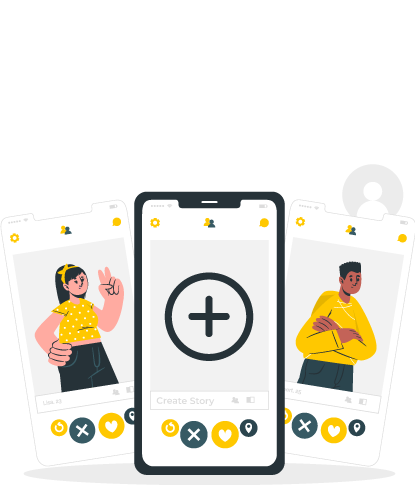
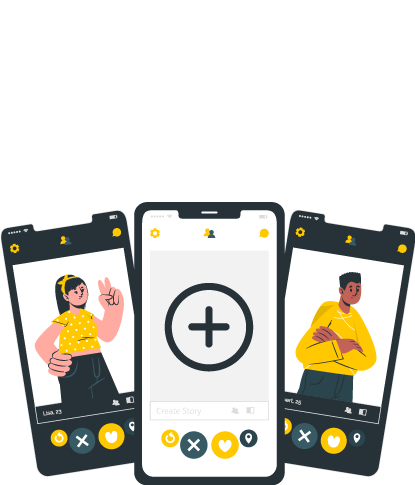
working in introslider

Changed region(s): [[0.0, 0.3711, 1.0, 1.0], [0.3759, 0.5567, 0.6361, 0.7732]]

diff --git a/screens/IntroSlider.js b/screens/IntroSlider.js
@@ -1,5 +1,5 @@
 import React from 'react';
-import { StyleSheet, View, Text, Image, StatusBar, Dimensions,ScrollView } from 'react-native';
+import { StyleSheet, View, Text, Image, StatusBar, Dimensions, ScrollView } from 'react-native';
 import AppIntroSlider from 'react-native-app-intro-slider';
 import { TouchableOpacity } from 'react-native-gesture-handler';
 import { connect } from 'react-redux'
@@ -40,11 +40,13 @@ const IntroSlider = (props) => {
     const RenderItem = ({ item, index }) => {
         console.log("item", item, index)
         return (
-            <ScrollView >
-                <View style={{ backgroundColor: item.backgroundColor, width: '100%', height: 320, alignItems: "center" }}>
-                    <Image source={item.image} style={{ alignItems: "center", height: 300, resizeMode: "contain", position: "absolute", bottom: -50 }} />
+
+            <ScrollView>
+                <StatusBar translucent backgroundColor="transparent" />
+                <View style={{ backgroundColor: item.backgroundColor, width: width, height: 300, alignItems: "center" }}>
+                    <Image source={item.image} style={styles.imageStyle} />
                 </View>
-                <View style={{ marginTop: 50 }}>
+                <View style={styles.titleStyle}>
                     <Text style={styles.introTitleStyle}>
                         {item.title}
                     </Text>
@@ -53,9 +55,7 @@ const IntroSlider = (props) => {
                     </Text>
                 </View>
             </ScrollView>
-
-
-        );
+     );
     };
 
     return (
@@ -64,8 +64,8 @@ const IntroSlider = (props) => {
                 data={slides}
                 renderItem={RenderItem}
                 onDone={onDone}
-                activeDotStyle={{ backgroundColor: '#263238', width: 20, height: 5 }}
-                dotStyle={{ backgroundColor: "#A3A4A7", height: 5 }}
+                activeDotStyle={styles.activeDot}
+                dotStyle={styles.dotStyleText}
                 bottomButton={true}
                 renderDoneButton={_renderDoneButton}
                 renderNextButton={_renderNextButton}
@@ -127,7 +127,31 @@ const styles = StyleSheet.create({
         alignItems: "center",
         justifyContent: "center",
         alignSelf: "center"
-    }
+    },
+    imageStyle:
+    {
+        alignItems: "center",
+        height: 300,
+        resizeMode: "contain",
+        position: "absolute",
+        bottom: -50
+    },
+    activeDot:
+    {
+        backgroundColor: '#263238',
+        width: 20,
+        height: 5
+    },
+    titleStyle:
+    {
+        marginTop: 50
+    },
+    dotStyleText:
+    {
+        backgroundColor: "#A3A4A7",
+        height: 5
+    },
+    
 
 });
 
